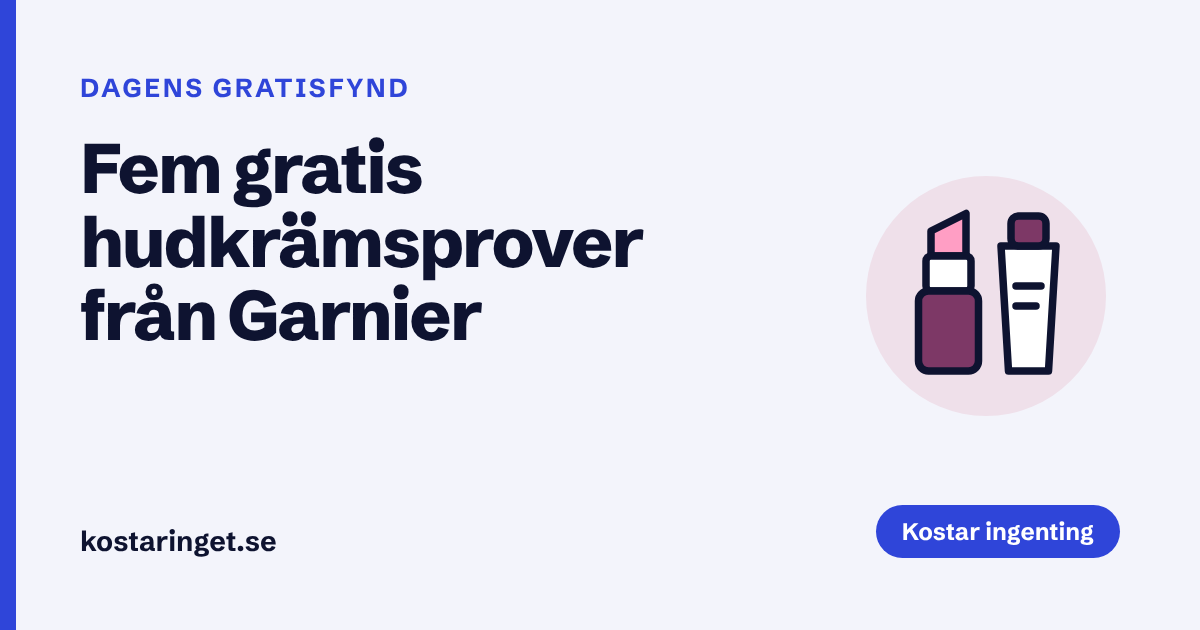
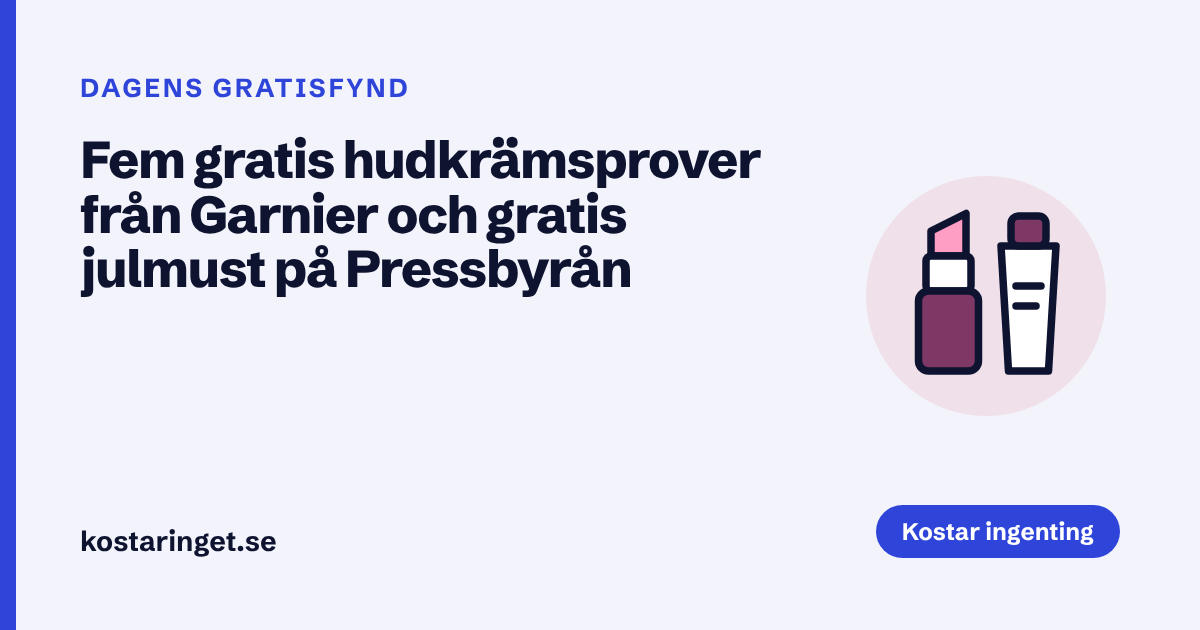
Rutin: företagets egna inlägg i sociala medier räknas som kontroll
Claude-Session: https://claude.ai/code/session_011DFCg6zjBtS2qfhzcGcdLf

Changed region(s): [[0.0617, 0.2111, 0.6475, 0.5429]]

diff --git a/docs/daglig-rutin.md b/docs/daglig-rutin.md
@@ -150,6 +150,8 @@ Temasidor samlar erbjudanden kring något folk söker på, till exempel `/gratis
 
 **Så kontrollerar du ett erbjudande (gäller också nya):**
 
+- Företagets egen webbplats eller kampanjsida räknas som kontroll. Det gör också företagets egna officiella konton i sociala medier, alltså inlägg som företaget själv har publicerat (till exempel Pressbyråns julmust, november 2026). Annonser, tipssajter och andras inlägg räknas aldrig.
+
 - Det räcker inte att sidan finns eller att sidans beskrivning säger "gratis prov". Själva beställningen måste finnas kvar: ett formulär, en knapp, en kupong eller en tydlig instruktion om hur man får erbjudandet. Läs sidans text, inte bara rubriken eller beskrivningen.
 - Finns beställningen kvar: sätt `checked` till dagens datum. Har villkor eller innehåll ändrats: uppdatera texten och sätt `updated`.
 - Har sidan flyttat men erbjudandet finns kvar: byt `url` till den nya adressen.
